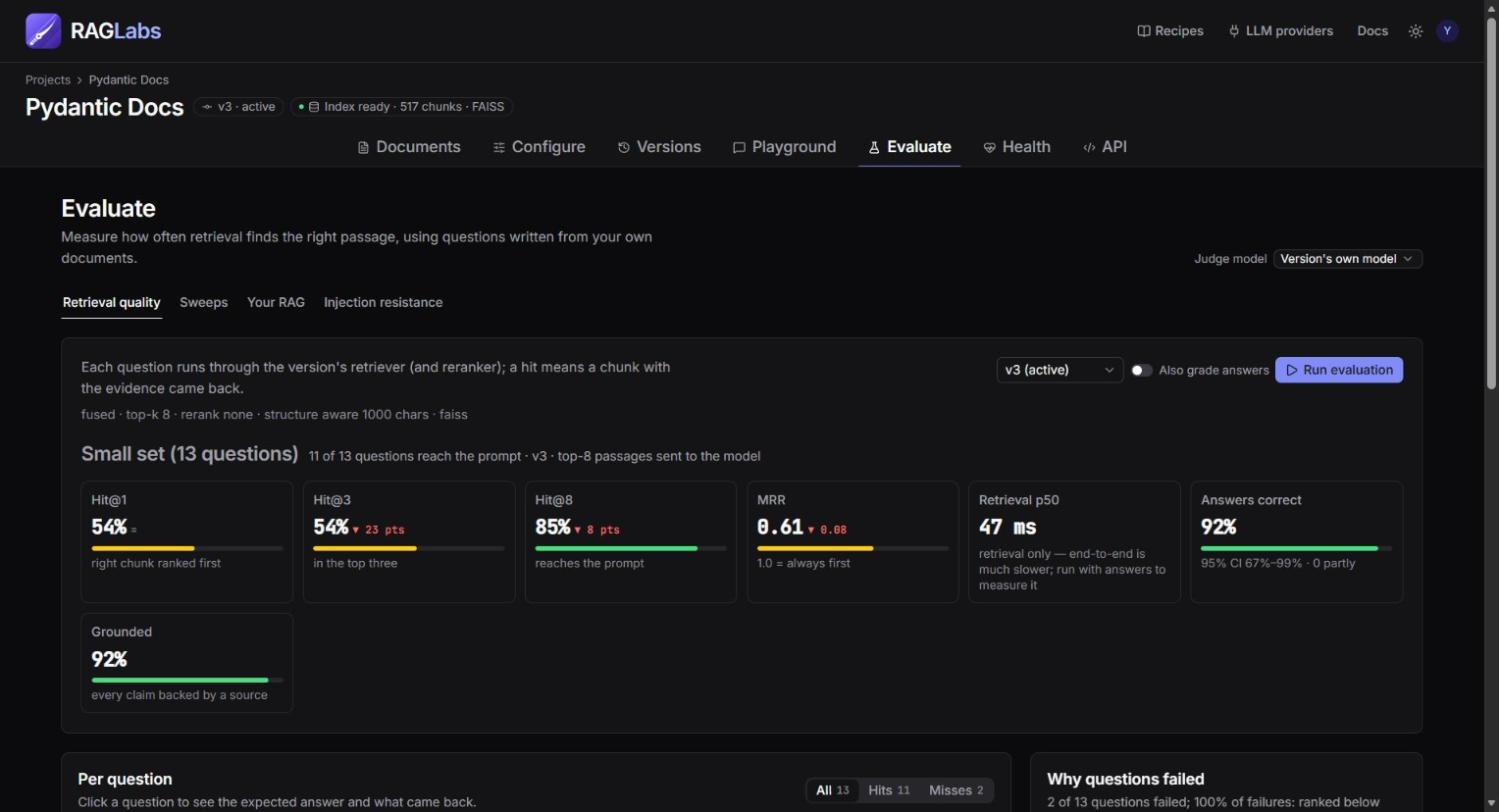
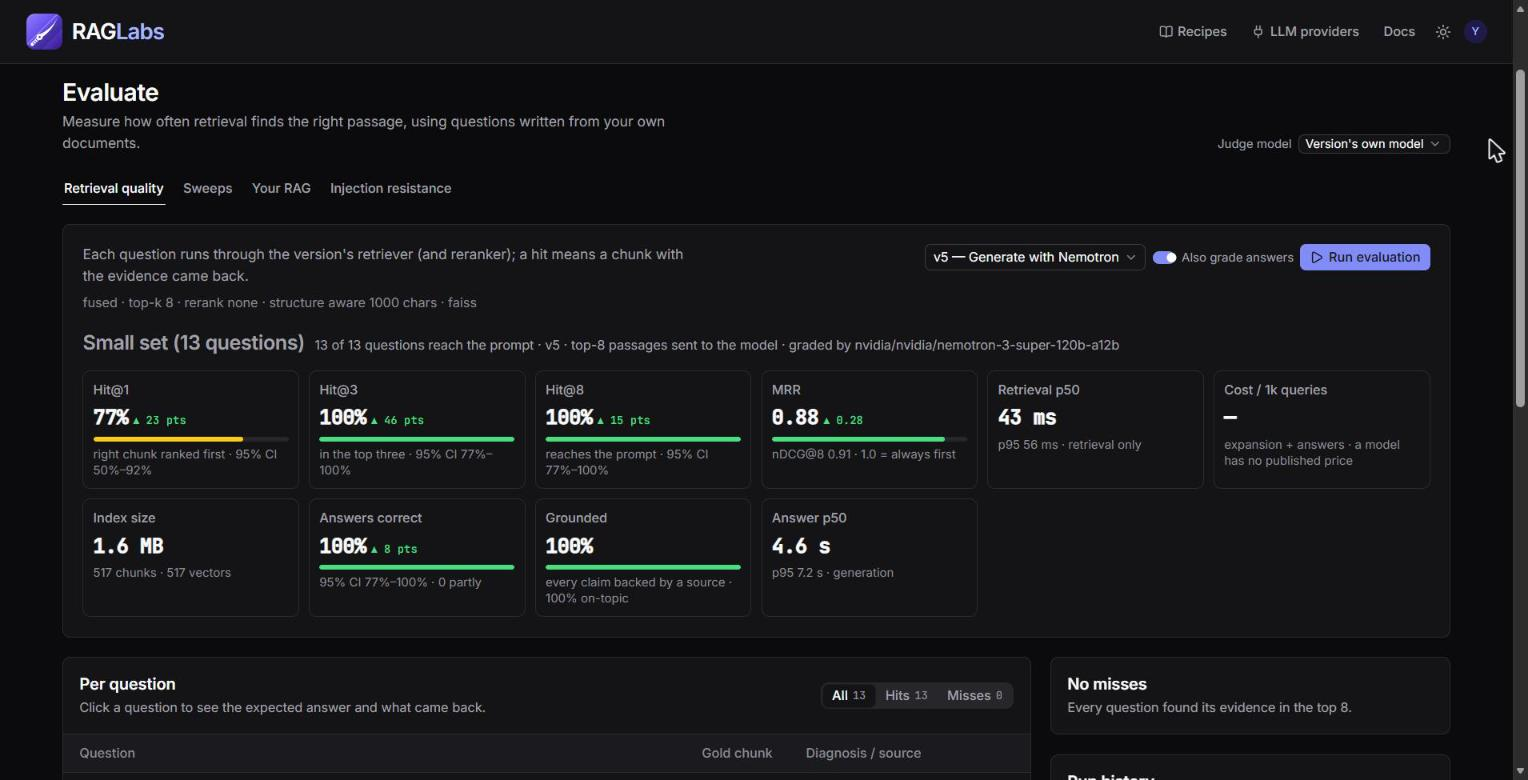
README screenshots: full pipeline canvas and a graded evaluation result
Claude-Session: https://claude.ai/code/session_01Wk2gdvb3vFtYM9rwjAne8X

diff --git a/README.md b/README.md
@@ -34,11 +34,11 @@ store; only the LLM calls you configure leave it.
 
 ## Screenshots
 
-![Evaluate: Hit@k, MRR, nDCG and answer grading on a question set](docs/images/evaluate.jpg)
+![Evaluate: Hit@k, MRR, nDCG, latency and LLM-graded answers on a generated question set](docs/images/evaluate.jpg)
 
 ![Playground: a cited answer, with the inspector showing how each source was found](docs/images/playground.jpg)
 
-![Configure: every pipeline stage with its options](docs/images/configure.jpg)
+![Canvas: the whole pipeline as a graph, from indexing to the cited answer](docs/images/canvas.jpg)
 
 ### What you can tune
 
